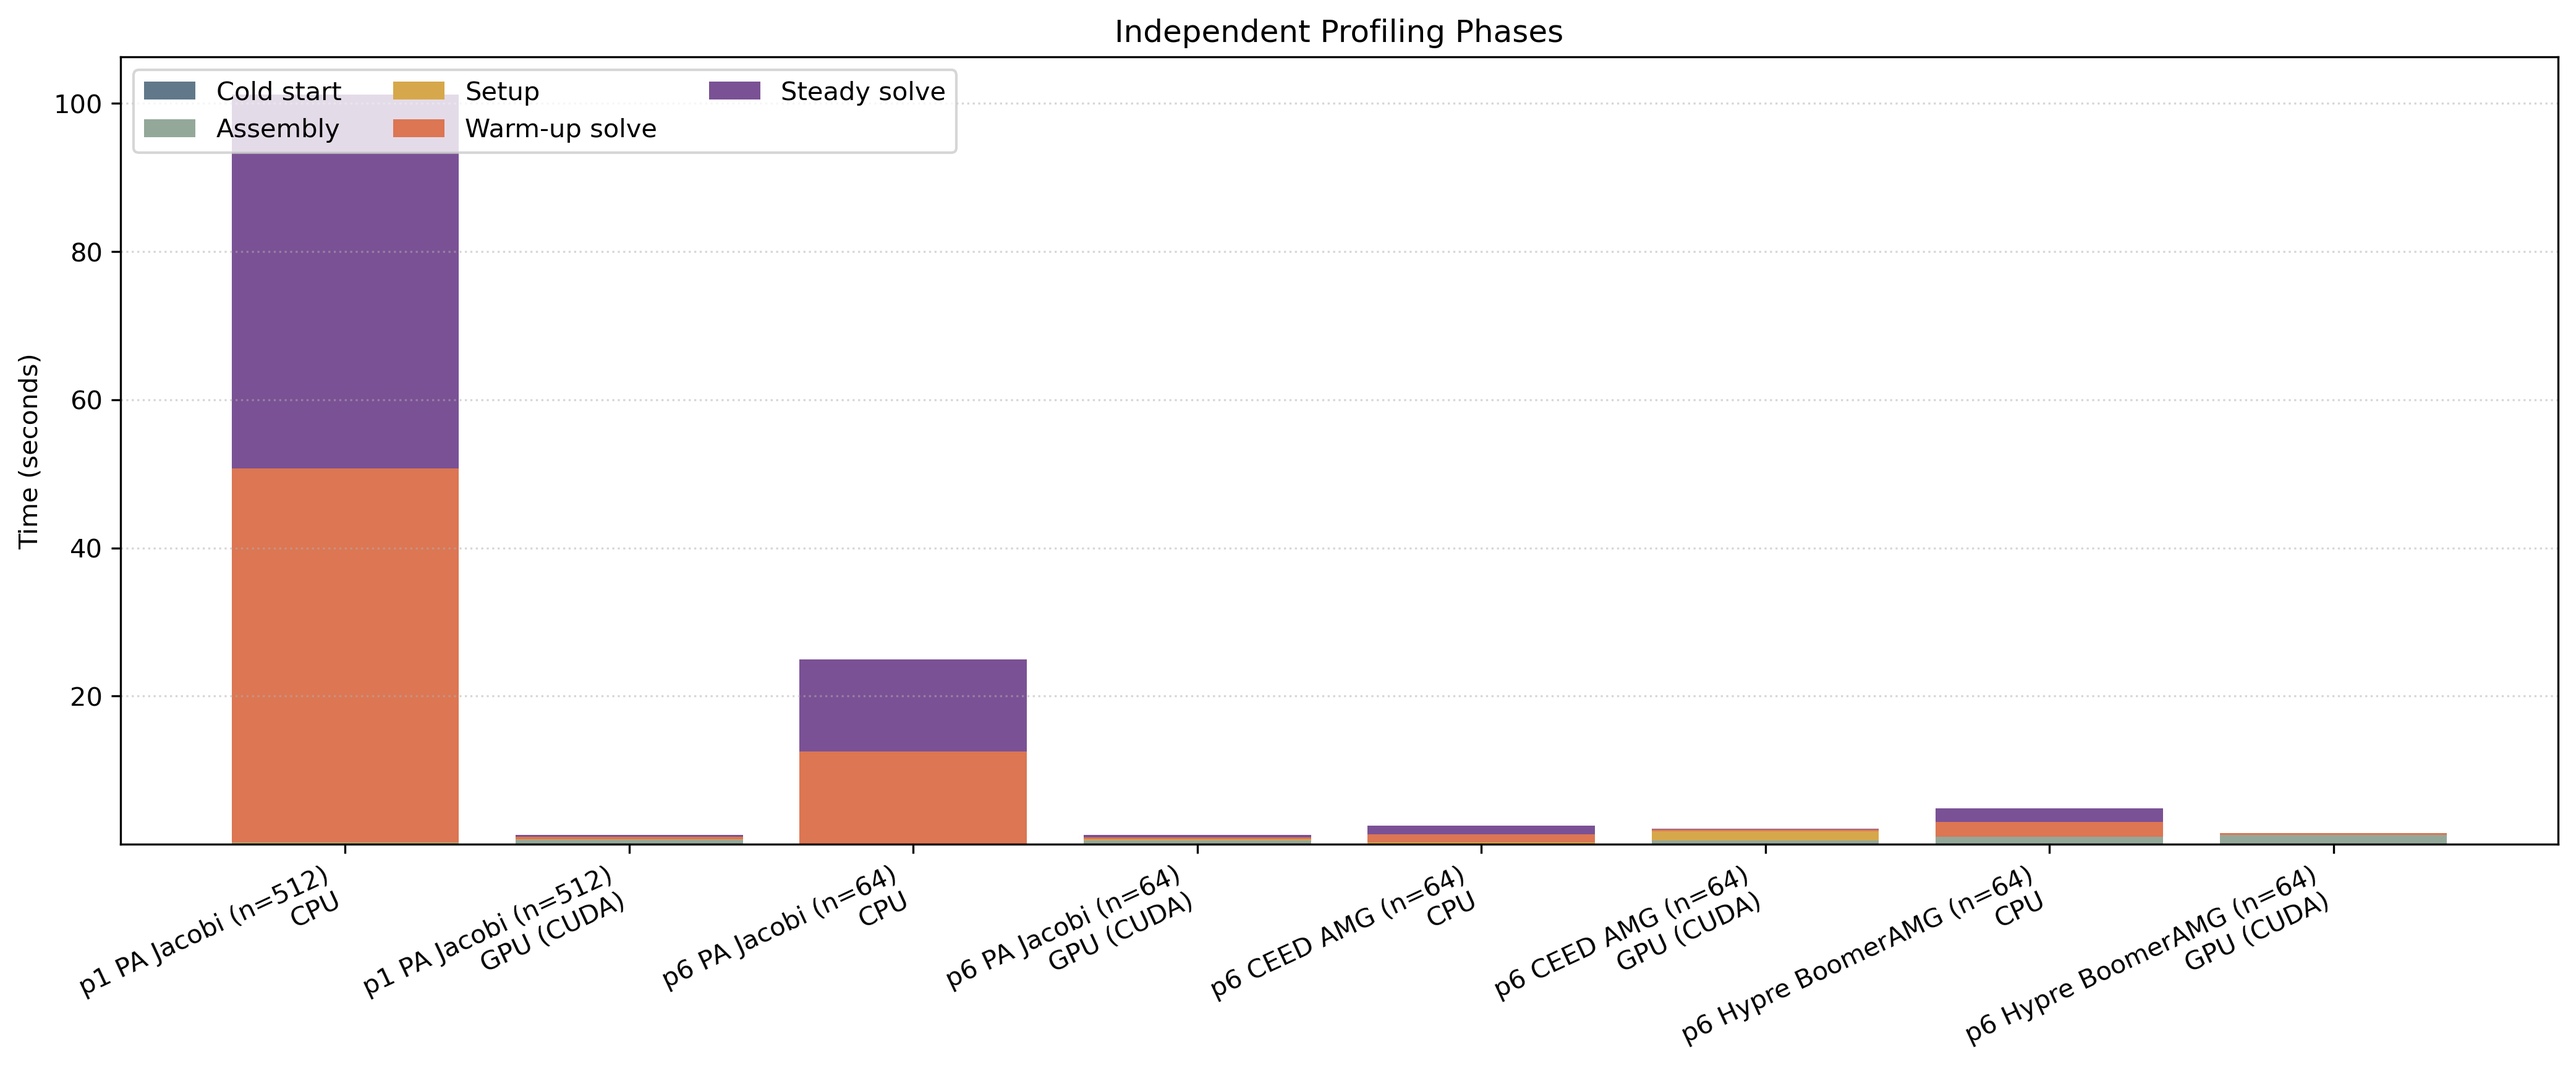
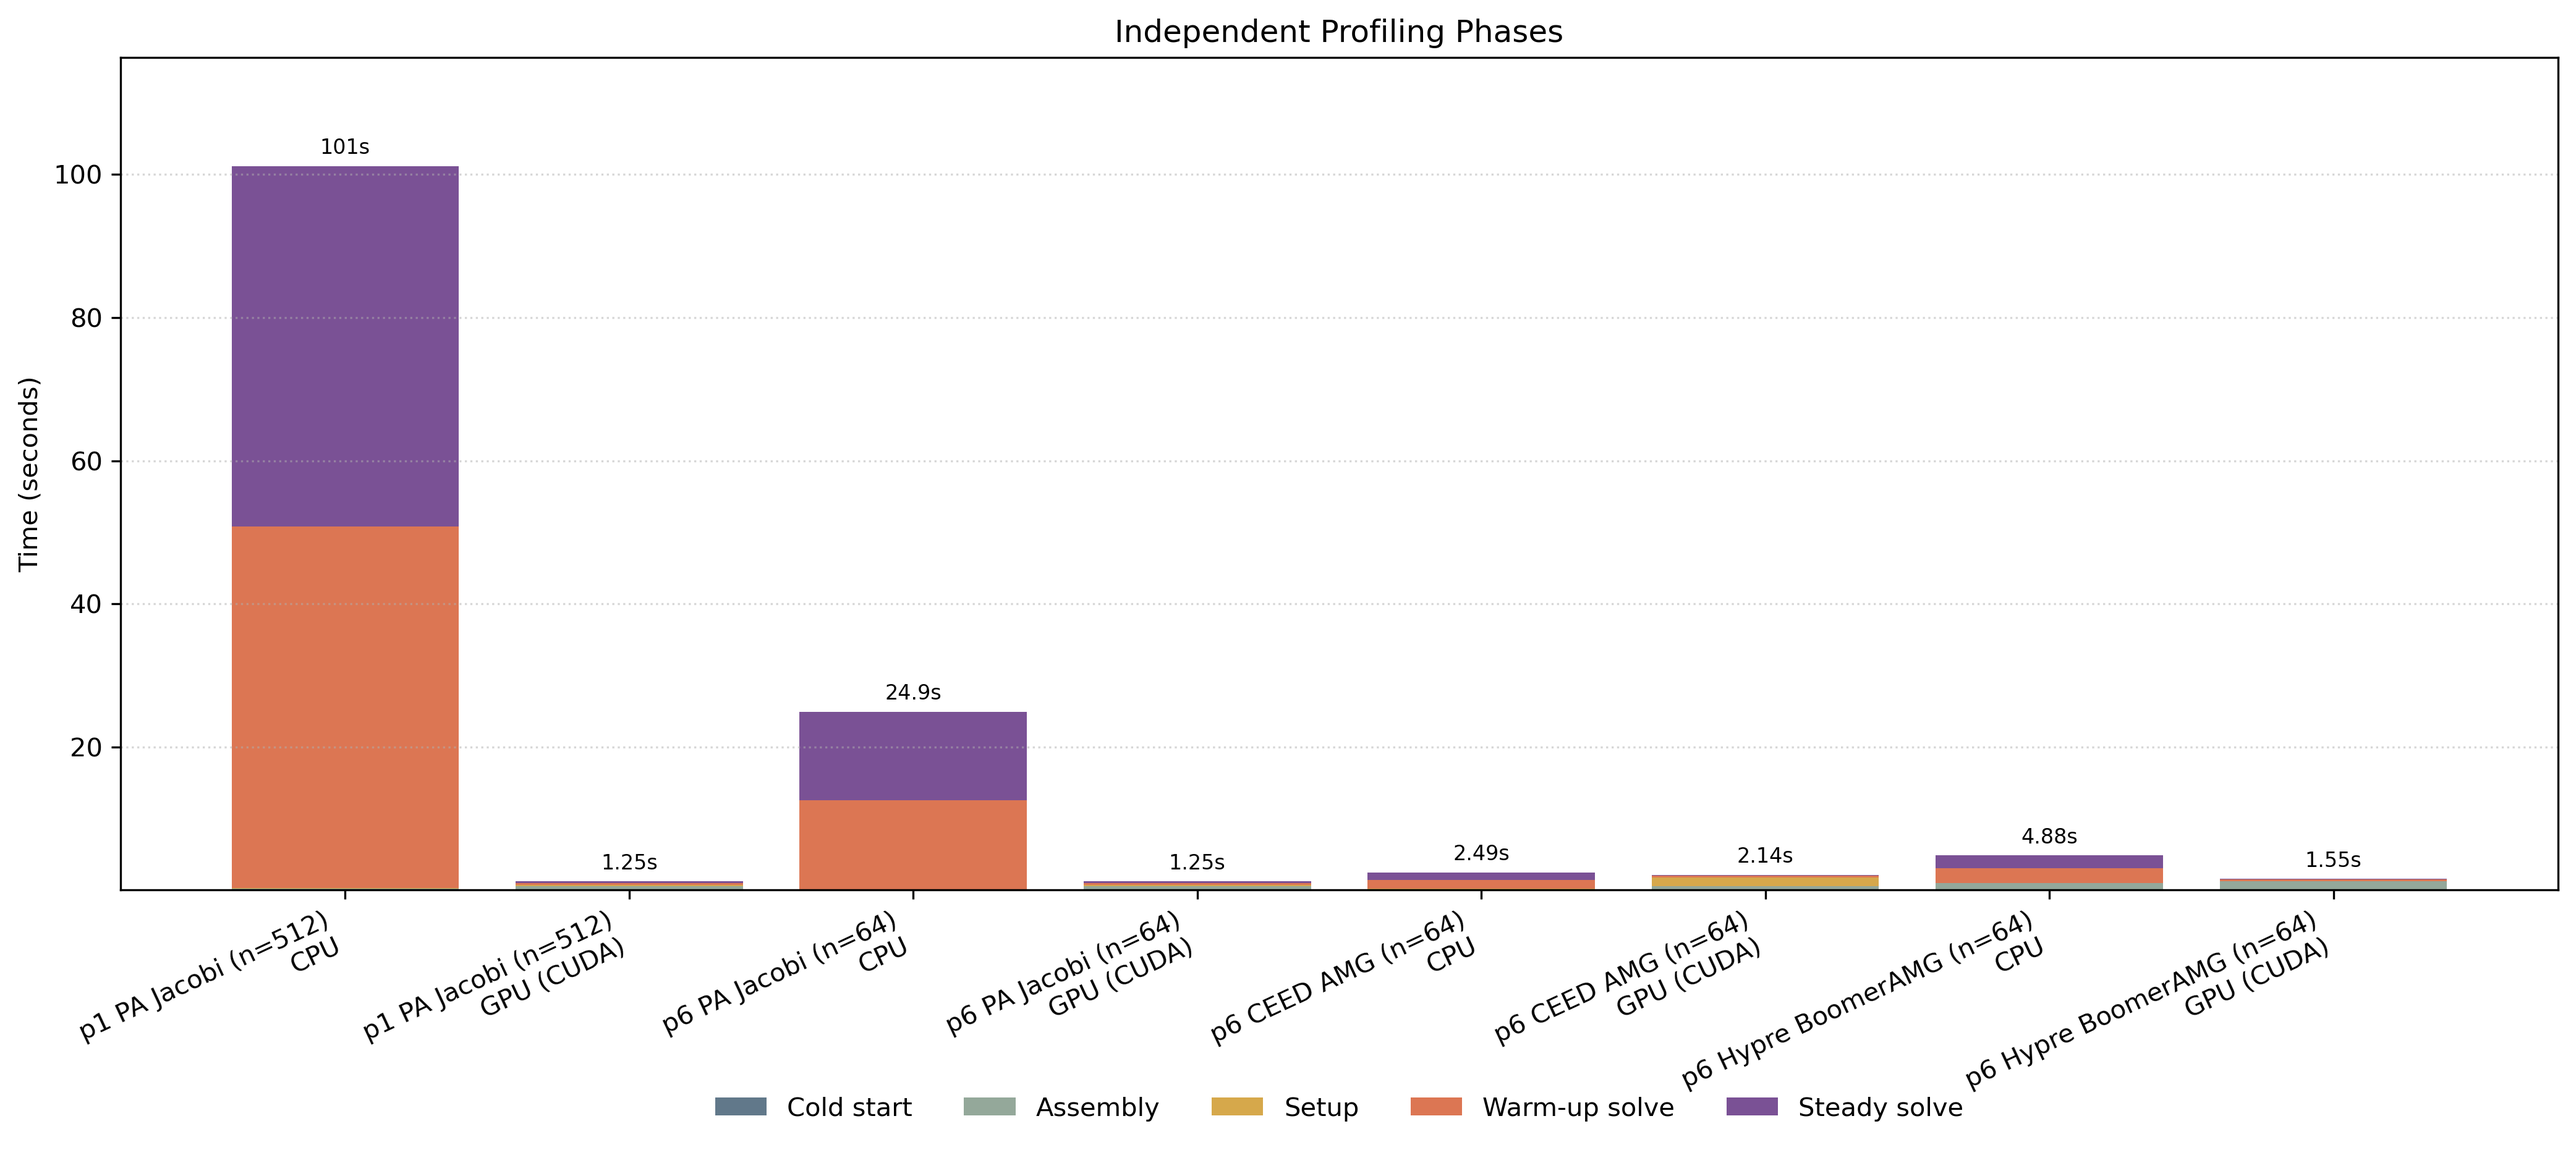
Add gpu_showcase_replot to fix legend/bar overlap
The original gpu_showcase.py put the CPU/GPU legend at upper-left of
the comparison plot and the phase legend at upper-left of the phases
plot; both landed on top of the tall p1 PA Jacobi CPU bars. This new
script re-renders the two PNGs from an existing gpu_showcase.csv
(no simulation re-run) with the shared legend above the axes on the
comparison plot and below the axes on the phases plot, plus a bit of
log-scale headroom so the "1.5x" speedup annotations no longer sit
adjacent to the legend.

Regenerates gpu_showcase.png and gpu_showcase_phases.png from the
existing CSV.

diff --git a/python_script/gpu_showcase_replot.py b/python_script/gpu_showcase_replot.py
@@ -1,0 +1,170 @@
+#!/usr/bin/env python3
+"""Re-render the GPU showcase PNGs from an existing gpu_showcase.csv.
+
+Reads the CSV produced by gpu_showcase.py and overwrites
+gpu_showcase.png and gpu_showcase_phases.png in the same directory
+with a layout that does not overlap the tallest bars with the legend
+or the per-bar value labels. Does not re-run any simulation.
+"""
+
+import argparse
+import csv
+from pathlib import Path
+
+import matplotlib.pyplot as plt
+import numpy as np
+
+DEVICE_LABEL = {"cpu": "CPU", "cuda": "GPU (CUDA)"}
+DEVICE_COLOR = {"cpu": "#315b7d", "cuda": "#e36b3d"}
+PHASES = (
+    ("cold_start_seconds", "Cold start", "#61788a"),
+    ("assembly_seconds", "Assembly", "#94a89a"),
+    ("setup_seconds", "Setup", "#d6a84b"),
+    ("warmup_solve_seconds", "Warm-up solve", "#dc7653"),
+    ("steady_solve_seconds", "Steady solve", "#7a5195"),
+)
+
+
+def load_rows(csv_path: Path) -> list[dict]:
+    with csv_path.open() as stream:
+        return list(csv.DictReader(stream))
+
+
+def write_comparison_plot(rows: list[dict], path: Path) -> None:
+    cases = list(dict.fromkeys(row["case"] for row in rows))
+    metrics = (
+        ("steady_solve_seconds", "Steady-state solve"),
+        ("assembly_setup_solve_total_seconds",
+         "Cold + assembly + setup + two solves"),
+    )
+    by_key = {(row["case"], row["device"]): row for row in rows}
+    figure, axes = plt.subplots(1, 2, figsize=(14, 6.2), dpi=100)
+    x = np.arange(len(cases))
+    width = 0.36
+
+    for axis, (field, title) in zip(axes, metrics):
+        all_values: list[float] = []
+        for index, device in enumerate(("cpu", "cuda")):
+            values = [float(by_key[(case, device)][field]) for case in cases]
+            all_values.extend(values)
+            offset = (index - 0.5) * width
+            bars = axis.bar(
+                x + offset, values, width,
+                label=DEVICE_LABEL[device], color=DEVICE_COLOR[device],
+            )
+            for bar, value in zip(bars, values):
+                axis.annotate(
+                    f"{value:.3g}s",
+                    (bar.get_x() + bar.get_width() / 2, value),
+                    xytext=(0, 3), textcoords="offset points",
+                    ha="center", va="bottom", fontsize=8, rotation=90,
+                )
+        for case_index, case in enumerate(cases):
+            cpu = float(by_key[(case, "cpu")][field])
+            cuda = float(by_key[(case, "cuda")][field])
+            axis.text(
+                case_index, max(cpu, cuda) * 3.0,
+                f"{cpu / cuda:.1f}x",
+                ha="center", va="bottom", fontweight="bold", fontsize=9,
+            )
+        axis.set_yscale("log")
+        # Headroom above the "1.5x" annotations (which sit at max*3) so the
+        # legend at the figure top has room to breathe.
+        axis.set_ylim(top=max(all_values) * 20.0)
+        axis.set_title(title)
+        axis.set_xticks(x, cases, rotation=18, ha="right")
+        axis.set_ylabel("Time (seconds, log scale)")
+        axis.grid(axis="y", which="both", linestyle=":", alpha=0.5)
+
+    figure.suptitle(
+        "MFEM GPU Showcase (labels show CPU / GPU speedup)", fontsize=15, y=0.995,
+    )
+    # One shared legend, above the axes and below the suptitle, so it never
+    # overlaps the tallest CPU bars in either subplot.
+    handles = [
+        plt.Rectangle((0, 0), 1, 1, color=DEVICE_COLOR[d]) for d in ("cpu", "cuda")
+    ]
+    figure.legend(
+        handles, [DEVICE_LABEL[d] for d in ("cpu", "cuda")],
+        loc="upper center", ncols=2, bbox_to_anchor=(0.5, 0.955),
+        frameon=False, fontsize=11,
+    )
+    figure.tight_layout(rect=(0, 0, 1, 0.93))
+    figure.savefig(path, dpi=300, bbox_inches="tight")
+    plt.close(figure)
+
+
+def write_phase_plot(rows: list[dict], path: Path) -> None:
+    labels = [f"{row['case']}\n{DEVICE_LABEL[row['device']]}" for row in rows]
+    figure, axis = plt.subplots(figsize=(14, 6.4), dpi=100)
+    x = np.arange(len(rows))
+    bottom = np.zeros(len(rows))
+    totals = np.zeros(len(rows))
+    for field, label, color in PHASES:
+        values = np.array([float(row[field]) for row in rows])
+        axis.bar(x, values, bottom=bottom, label=label, color=color)
+        bottom += values
+        totals += values
+
+    for xi, total in zip(x, totals):
+        axis.annotate(
+            f"{total:.3g}s",
+            (xi, total), xytext=(0, 3), textcoords="offset points",
+            ha="center", va="bottom", fontsize=8,
+        )
+    axis.set_ylim(top=totals.max() * 1.15)
+    axis.set_xticks(x, labels, rotation=25, ha="right")
+    axis.set_ylabel("Time (seconds)")
+    axis.set_title("Independent Profiling Phases")
+    axis.grid(axis="y", linestyle=":", alpha=0.5)
+    # Legend below the plot so it can never occlude the tallest stack
+    # (p1 PA Jacobi CPU is ~100s tall on this axis).
+    axis.legend(
+        ncols=len(PHASES), loc="upper center",
+        bbox_to_anchor=(0.5, -0.22), frameon=False,
+    )
+    figure.tight_layout()
+    figure.savefig(path, dpi=300, bbox_inches="tight")
+    plt.close(figure)
+
+
+def parse_args() -> argparse.Namespace:
+    default_dir = Path(__file__).resolve().parent / "gpu_showcase_results"
+    parser = argparse.ArgumentParser(description=__doc__)
+    parser.add_argument(
+        "--input", type=Path, default=default_dir / "gpu_showcase.csv",
+        help="path to gpu_showcase.csv (default: %(default)s)",
+    )
+    parser.add_argument(
+        "--comparison-out", type=Path, default=None,
+        help="output PNG for the comparison plot "
+             "(default: <input dir>/gpu_showcase.png)",
+    )
+    parser.add_argument(
+        "--phases-out", type=Path, default=None,
+        help="output PNG for the phases plot "
+             "(default: <input dir>/gpu_showcase_phases.png)",
+    )
+    args = parser.parse_args()
+    args.input = args.input.resolve()
+    if not args.input.is_file():
+        parser.error(f"input CSV not found: {args.input}")
+    parent = args.input.parent
+    args.comparison_out = (args.comparison_out or parent / "gpu_showcase.png").resolve()
+    args.phases_out = (args.phases_out or parent / "gpu_showcase_phases.png").resolve()
+    return args
+
+
+def main() -> None:
+    args = parse_args()
+    rows = load_rows(args.input)
+    if not rows:
+        raise SystemExit(f"no rows in {args.input}")
+    write_comparison_plot(rows, args.comparison_out)
+    write_phase_plot(rows, args.phases_out)
+    print(f"Comparison: {args.comparison_out}")
+    print(f"Phases:     {args.phases_out}")
+
+
+if __name__ == "__main__":
+    main()
